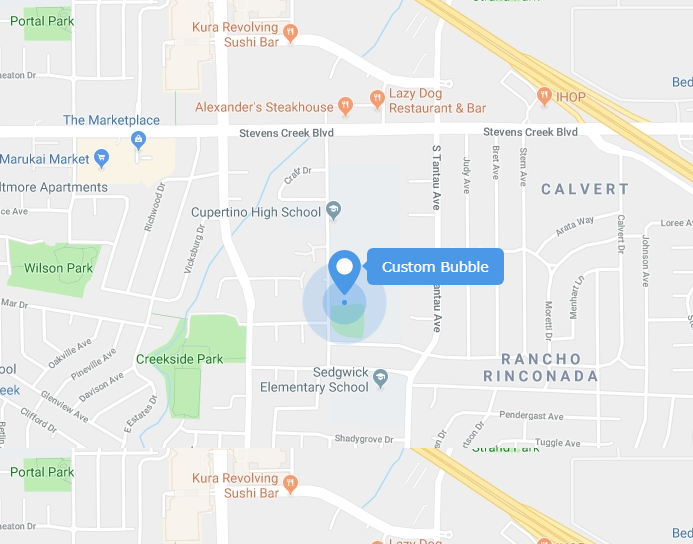
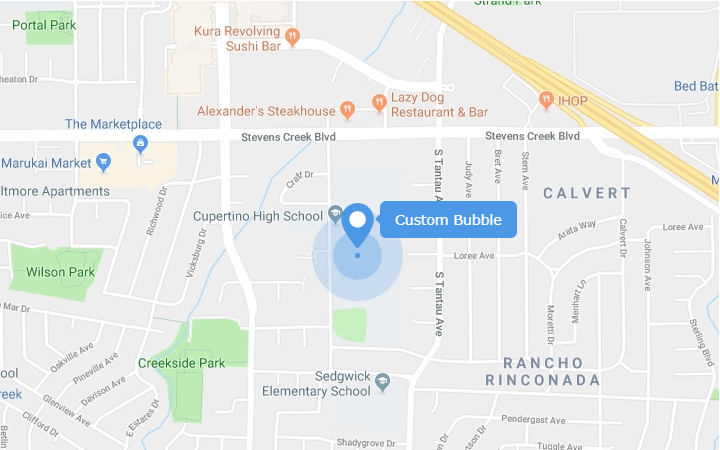
[*] size imgs

diff --git a/style.css b/style.css
@@ -59,8 +59,8 @@ body {
 }
 
 .mapContainer {
-    width: 699px;
-    height: 552px;
+    width: 720px;
+    height: 451px;
     position: absolute;
     top: 0;
     bottom: 0;
